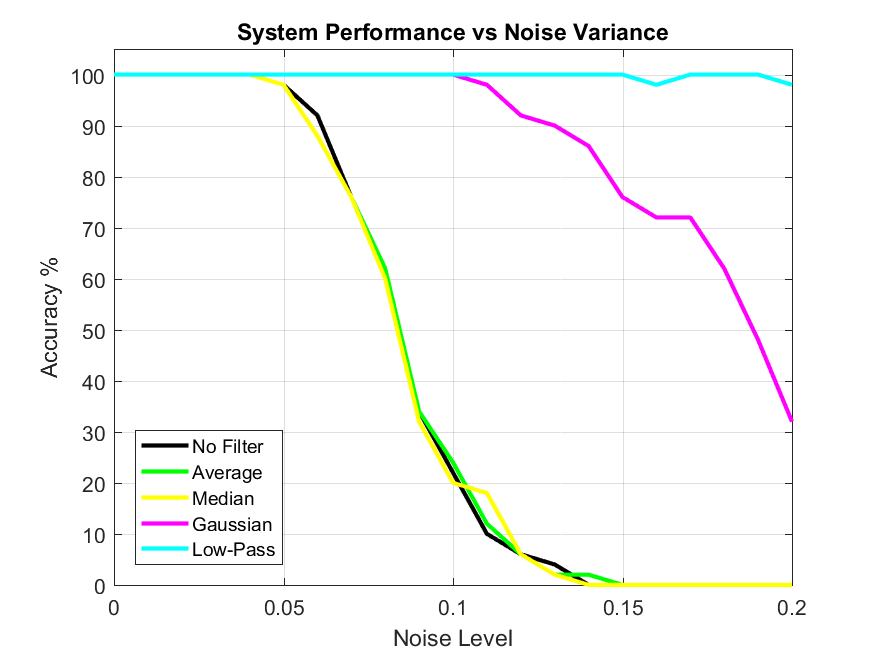
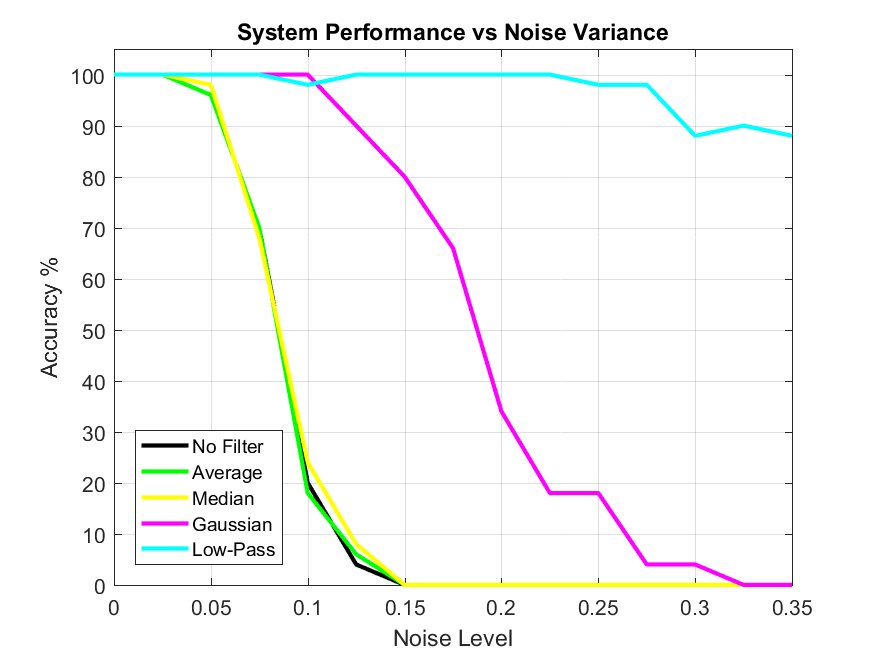
Updated ReadMe

diff --git a/partTwo_ii.m b/partTwo_ii.m
@@ -9,7 +9,7 @@ imagesCapMissing = dir(fullfile(dirCapMissing,'*.jpg'));
 
 numImages = length(imagesCapMissing);
 
-noiseRange = 0.0:0.01:0.2; 
+noiseRange = 0.0:0.025:0.35; 
 numTests = 5;
 
 % Ideal filter parameters 

diff --git a/README.md b/README.md
@@ -5,10 +5,26 @@ Part one deals with the evaluation of a visual inspection system with with Gauss
 
 ---
 
-### Part One:
+### 1. Evaluation of Visual Inspection System with Noisy Images 
+
 Part one chooses three fault categories from the previous application. The "imnoise" function is used to add Gaussian noise for each fault of increasing levels of noise variance. Each fault is then checked using the same methods as previous and the results are graphed. The overall performance can be seen below.
 
-![alt text](https://github.com/JordanCahill/ProductionLineNoiseAnalysis/blob/master/Results/PartOne/OverallResults.png)
+![alt text](https://github.com/JordanCahill/ProductionLineNoiseAnalysis/blob/master/Results/PartOne/OverallResults.png =250x250)
 
 ---
+
+### 2. Investigation of Noise Removal using Filtering 
+
+Part two adds applies filtering to the noisy images and investigates the performance of the program. The "Cap missing" fault was chosen as it performed in between the other two faults chosen for part one. This gave a better picture of performance post-filtering. 
+
+Initially, a single noise level was chosen as a test operating point. A sigma value of 0.12 was chosen as this resulted in a 10% detection rate when no filtering was applied. Each image was separately subjected to four different types of filters:
+
+* Average Filtering (Spatial Domain)
+* Median Filtering (Spatial Domain)
+* Gaussian Filtering (Spatial Domain)
+* Low-Pass Filtering (Frequency Domain)
+
+The application was then extended to the full range of noise variance from part one to obtain a plot of system performance vs noise variance.
+
+![alt text](https://github.com/JordanCahill/ProductionLineNoiseAnalysis/blob/master/Results/PartTwo/OverallPerformance.png =250x250)
 
